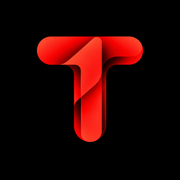
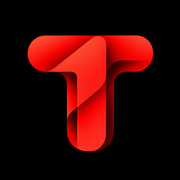
fix: 앱 로고 이미지 교체(선명한 재추출 버전) (#768)
icon-192.png / icon-512.png / apple-touch-icon.png와
icons/splash/*.png(기기별 10종)를 새로 받은 로고 원본으로 다시 생성.
bootSplash와 동일한 26% 너비 비율 유지.

Claude-Session: https://claude.ai/code/session_01TNoGCWRQtXcfdnQwZ6HvCX

Changed region(s): [[0.1389, 0.1944, 0.8611, 0.8611]]

diff --git a/index.html b/index.html
@@ -12073,7 +12073,7 @@ const settingsHeaderName = document.getElementById("settingsHeaderName");
 const settingsHeaderSub = document.getElementById("settingsHeaderSub");
 
 /* ✅ 앱 버전 정의 — 의미 있는 수정/배포마다 올림(설정 화면에서 "최신 버전 받았는지" 확인용) */
-const APP_VERSION = "0.9.304";
+const APP_VERSION = "0.9.305";
 const appVersionDisplay = document.getElementById("appVersionDisplay");
 if (appVersionDisplay) {
   appVersionDisplay.textContent = APP_VERSION;
